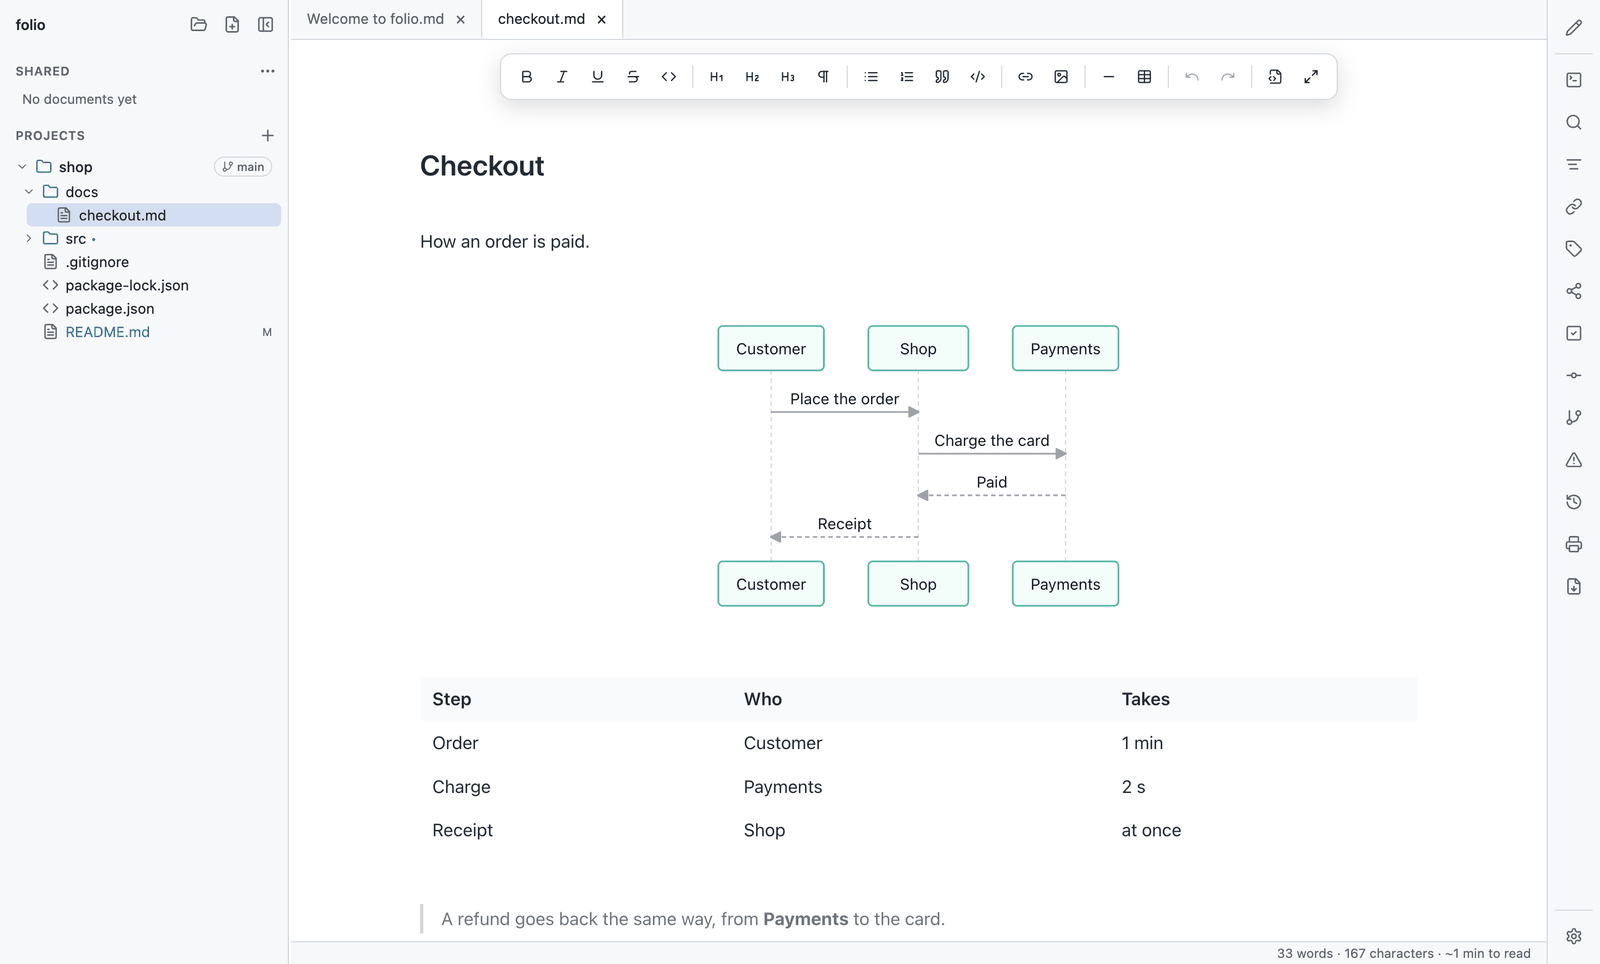
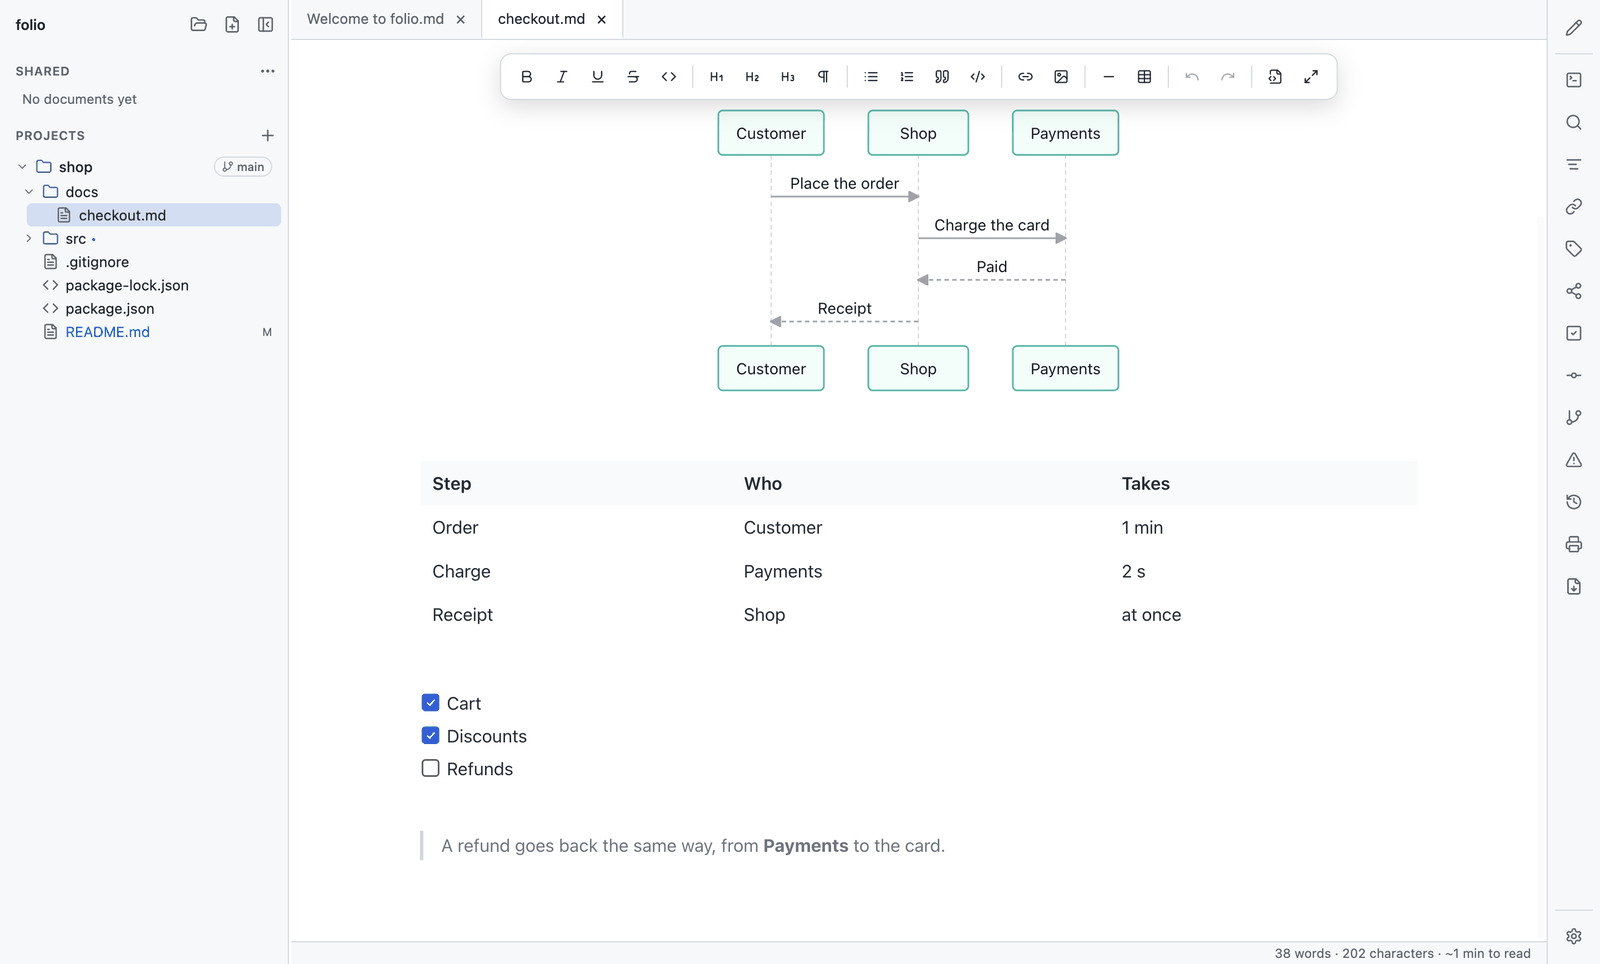
folio 1.7.1: task lists edited with boxes (embed 1.20.0), README screenshots, docs

diff --git a/tests/e2e/taskList.spec.ts b/tests/e2e/taskList.spec.ts
@@ -1,0 +1,36 @@
+import { _electron as electron, expect, test } from '@playwright/test'
+import { readFileSync, writeFileSync } from 'node:fs'
+import { join } from 'node:path'
+import { fixture } from './fixture'
+
+const mod = process.platform === 'darwin' ? 'Meta' : 'Control'
+
+test('a task list edited visually: boxes from the Markdown, one ticked by a click, Enter starts an unticked one, saved as GFM', async () => {
+  const f = fixture()
+  const note = join(f.folder, 'Plan.md')
+  writeFileSync(note, '# Plan\n\n- [x] Cart\n- [ ] Refunds\n')
+  const app = await electron.launch({ args: ['.', note], env: { ...process.env, FOLIO_DATA: f.data } })
+  try {
+    const win = await app.firstWindow()
+    const pane = win.locator('article.doc:not([hidden])')
+    await expect(pane.locator('h1', { hasText: 'Plan' })).toBeVisible()
+    await win.keyboard.press(`${mod}+e`)
+    const items = pane.locator('[contenteditable="true"] li[data-checked]')
+    await expect(items).toHaveCount(2)
+    // Not a block of Markdown any more.
+    await expect(pane.locator('pre code.language-x-markdown')).toHaveCount(0)
+    const refunds = items.filter({ hasText: 'Refunds' })
+    await refunds.scrollIntoViewIfNeeded()
+    const box = (await refunds.boundingBox())!
+    await win.mouse.click(box.x - 12, box.y + 10)
+    await expect(refunds).toHaveAttribute('data-checked', 'true')
+    await refunds.click({ position: { x: box.width - 4, y: box.height / 2 } })
+    await win.keyboard.press('End')
+    await win.keyboard.press('Enter')
+    await win.keyboard.type('Survey')
+    await win.keyboard.press(`${mod}+s`)
+    await expect.poll(() => readFileSync(note, 'utf8')).toBe('# Plan\n\n- [x] Cart\n- [x] Refunds\n- [ ] Survey\n')
+  } finally {
+    await app.close()
+  }
+})

diff --git a/CHANGELOG.md b/CHANGELOG.md
@@ -7,8 +7,17 @@ and this project follows [Semantic Versioning](https://semver.org/spec/v2.0.0.ht
 
 ## [Unreleased]
 
+## [1.7.1] - 2026-11-04
+
+### Fixed
+- Task lists (`- [ ]` / `- [x]`) are edited visually as lists with boxes to
+  tick — a click ticks a box, `[ ] ` or `[x] ` typed at the start of an item
+  makes a task, Enter after a task starts an unticked one — instead of showing
+  as a block of Markdown (embed 1.20.0: markdown-editor 0.9.0, wysiwyg 0.13.0).
+
 ### Changed
 - The welcome document tells of tabs (colours, groups, closing many).
+- The README shows the interface: screenshots in English.
 - Docs: what `folio-data/` holds and the two files folio writes into your
   folders when asked; what needs the system's git; reviewing an agent's work in
   the README; the source layout, the icon and the quiet end-to-end mode in the
@@ -433,7 +442,8 @@ The first release: portable builds for macOS, Windows and Linux.
   the system browser), its data kept beside the program, CI on Linux, macOS and
   Windows with the built app started and checked.
 
-[Unreleased]: https://github.com/dskripchenko/folio/compare/v1.7.0...HEAD
+[Unreleased]: https://github.com/dskripchenko/folio/compare/v1.7.1...HEAD
+[1.7.1]: https://github.com/dskripchenko/folio/compare/v1.7.0...v1.7.1
 [1.7.0]: https://github.com/dskripchenko/folio/compare/v1.6.0...v1.7.0
 [1.6.0]: https://github.com/dskripchenko/folio/compare/v1.5.1...v1.6.0
 [1.5.1]: https://github.com/dskripchenko/folio/compare/v1.5.0...v1.5.1

diff --git a/docs/ru/design.md b/docs/ru/design.md
@@ -617,8 +617,9 @@ draw.io, процесс или доска целиком, справочник A
 обратно. У редактора три режима: визуальный (правка как в текстовом
 процессоре — панель инструментов, меню `/`, все блоки живые), сам Markdown и
 оба рядом. Файл остаётся Markdown: то, что визуальный режим не держит
-(заголовки ниже h3, чек-листы, выноски, HTML), сохраняется как написано, а
-картинки сохраняют свои относительные пути.
+(заголовки ниже h3, выноски, HTML), сохраняется как написано, а картинки
+сохраняют свои относительные пути. Чек-листы — списки с флажками: щелчок
+отмечает пункт, `[ ] ` или `[x] ` в начале пункта делает его задачей.
 
 | Клавиши | |
 |---|---|

diff --git a/docs/de/design.md b/docs/de/design.md
@@ -673,9 +673,10 @@ Widget in seiner Druckform; dann druckt Chromium sie als PDF.
 Editor und zurück. Der Editor hat drei Modi: visuell (Bearbeiten wie in einer
 Textverarbeitung mit Werkzeugleiste, `/`-Menü und allen lebenden Blöcken), das
 Markdown selbst und beides nebeneinander. Die Datei bleibt Markdown: was der
-visuelle Modus nicht halten kann (Überschriften unter h3, Aufgabenlisten,
-Hinweisboxen, HTML), bleibt wie geschrieben, und Bilder behalten ihre relativen
-Pfade.
+visuelle Modus nicht halten kann (Überschriften unter h3, Hinweisboxen, HTML),
+bleibt wie geschrieben, und Bilder behalten ihre relativen Pfade.
+Aufgabenlisten sind Listen mit Kästchen: ein Klick hakt eines ab, `[ ] ` oder
+`[x] ` am Anfang eines Eintrags macht ihn zur Aufgabe.
 
 | Tasten | |
 |---|---|

diff --git a/README.md b/README.md
@@ -53,9 +53,10 @@ references you can try — drawn from the Markdown, offline.
 
 ![An OpenAPI reference with Try it](docs/images/api.png)
 
-**Editing** visually, with the diagram still drawn as you write.
+**Editing** visually, with the diagram still drawn as you write and tasks ticked
+in place.
 
-![A note edited visually: a sequence diagram, a table and a quote](docs/images/edit.png)
+![A note edited visually: a sequence diagram, a table, a task list and a quote](docs/images/edit.png)
 
 **A light IDE**: its own code editor with changes in the gutter and the language
 server's checks, git, and a console.

diff --git a/docs/en/design.md b/docs/en/design.md
@@ -614,8 +614,9 @@ then Chromium prints them to PDF.
 The editor has three modes: visual (a word-processor editing with the toolbar,
 the `/` menu and every block live), Markdown itself, and the two side by side.
 The file stays Markdown: what the visual mode cannot hold — headings below h3,
-task lists, callouts, HTML — is kept as written, and pictures keep their
-relative paths.
+callouts, HTML — is kept as written, and pictures keep their relative paths.
+Task lists are lists with boxes: a click ticks one, `[ ] ` or `[x] ` typed at
+the start of an item makes a task.
 
 | Keys | |
 |---|---|
